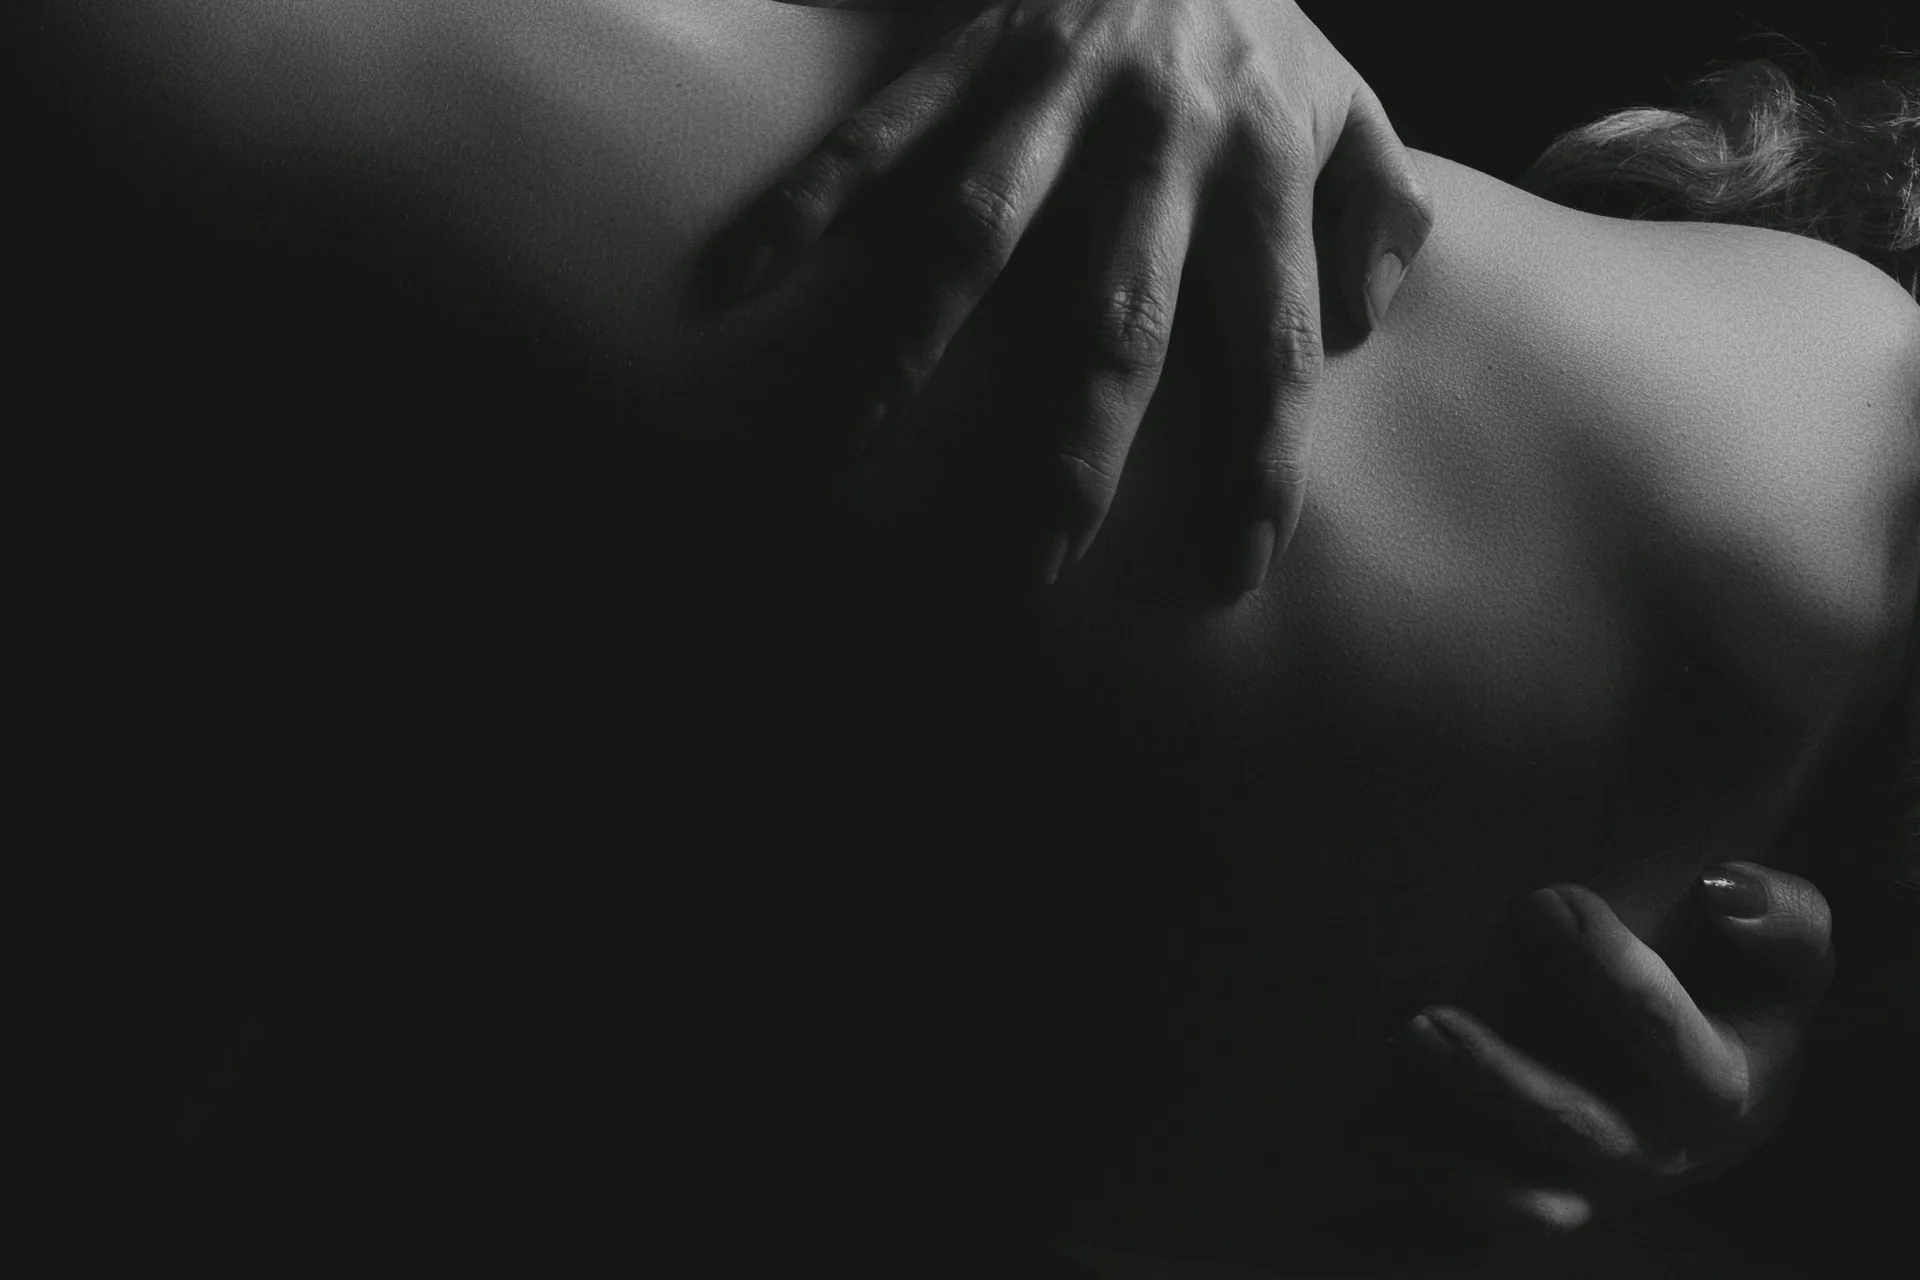
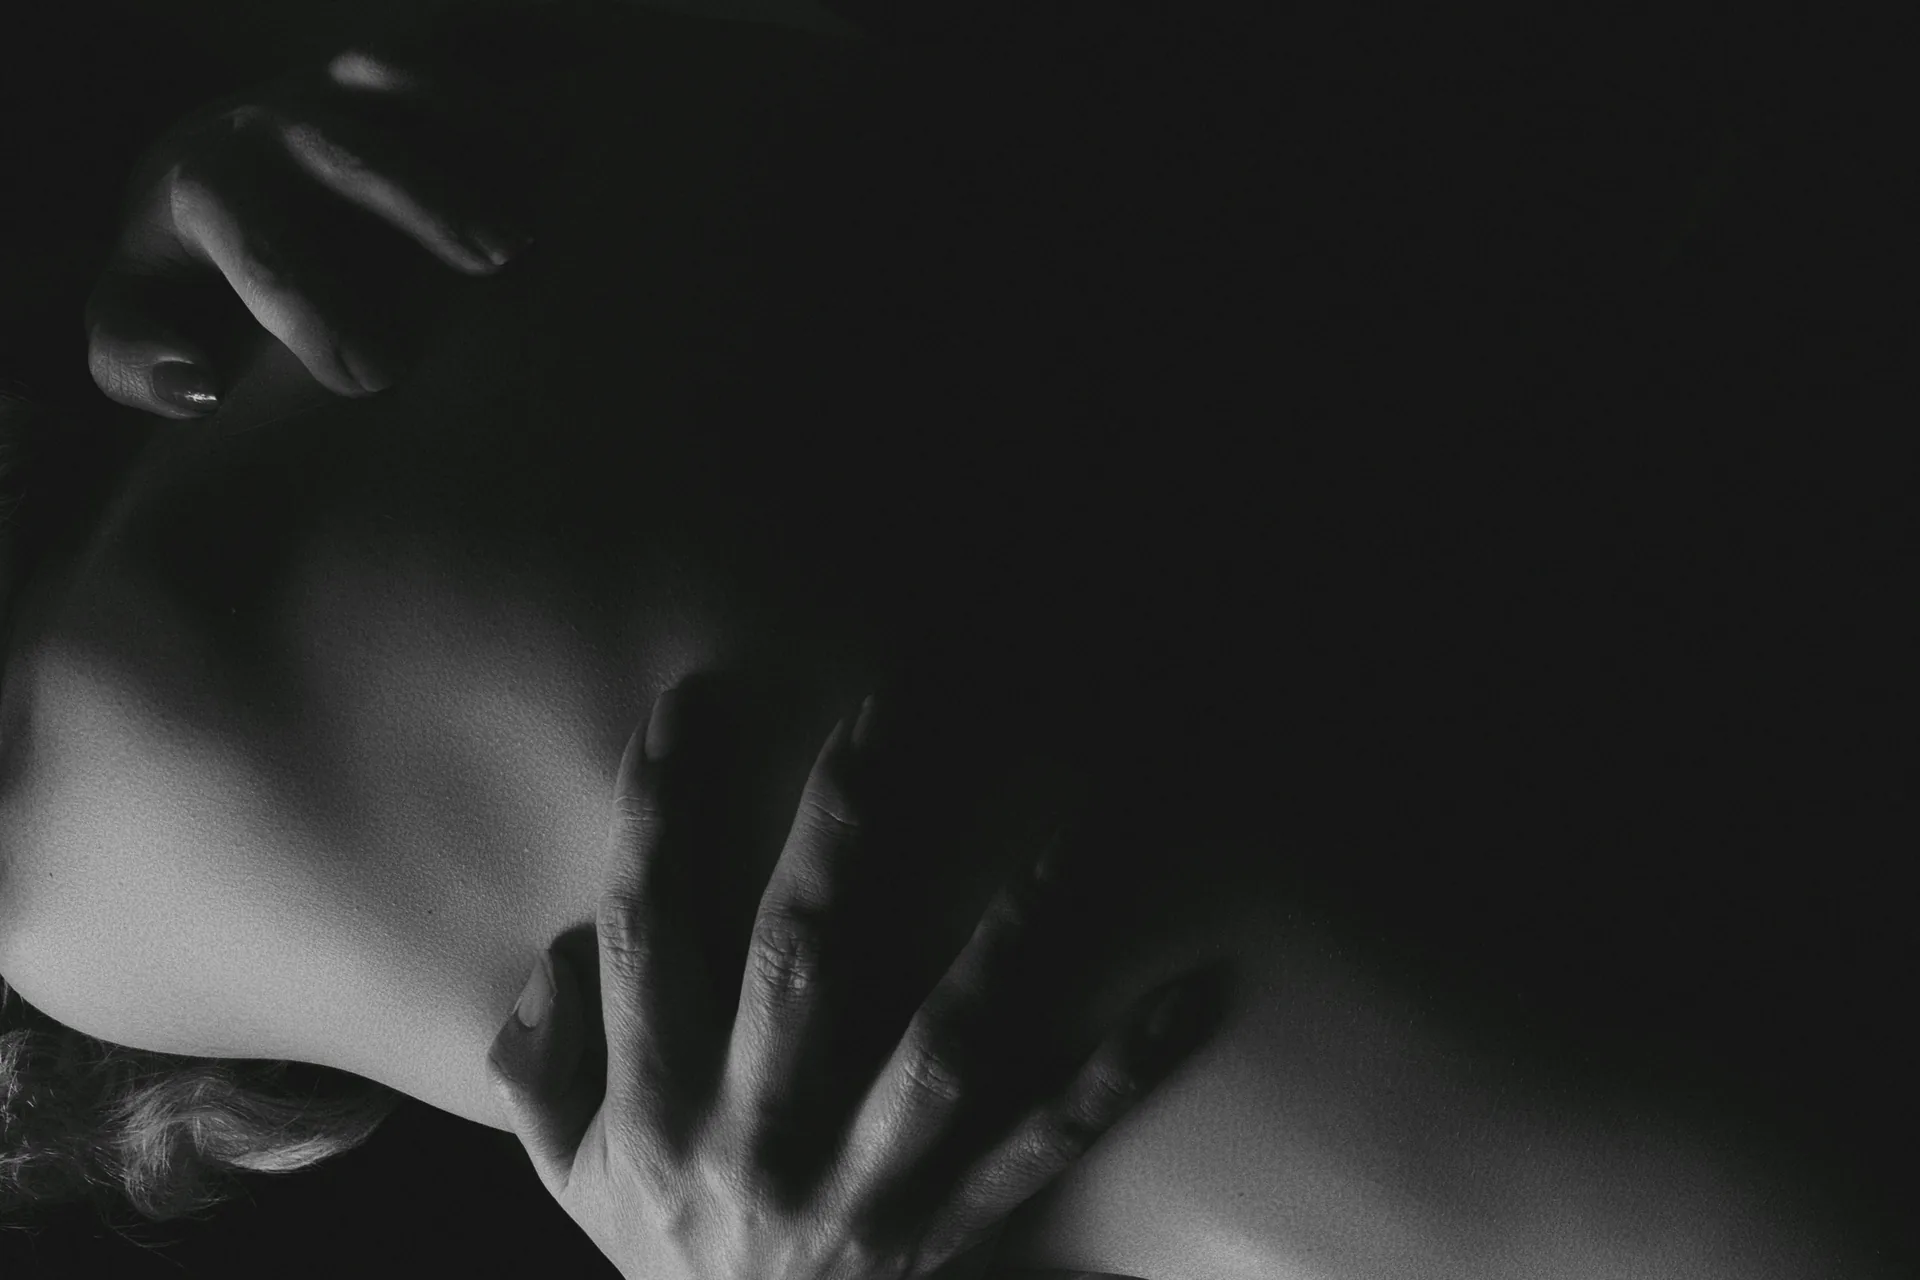
Turn the Plan Your Visit photograph counter-clockwise instead

diff --git a/docs/decisions.md b/docs/decisions.md
@@ -620,5 +620,5 @@ Prompt 01 decisions come first (1 to 47); prompt 02 and its review addendum foll
 
 392. The development `runserver` (`apps/core/management/commands/runserver.py`) applies unapplied migrations before it starts and again on every reload after a code change, prints a red WARNING naming any it could not apply, and warns when no membership tiers are on offer. The cause was the dev API container, which migrated only when it started: after prompt 09's models loaded through the code reloader, `/api/membership/tiers/` failed on a missing column until someone ran `migrate` by hand. `apps.core` now sits before `django.contrib.staticfiles` in `INSTALLED_APPS` so this `runserver` is the one Django uses; it still serves static files. `--skip-migrate` turns it off; nothing changes with DEBUG off.
 393. `/membership` shows "Membership plans are not online yet" when no tiers are on offer, rather than an empty page; "did not load" is kept for a failed request.
-394. The Plan Your Visit hero shows the owner's photograph (`photos/Plan.jpeg`), turned 90° clockwise at the owner's request, which makes it a 3:2 landscape that fills the design's 3:2 frame. It was processed by `scripts/fetch_images.py` into `visit-plan.webp` (metadata stripped, 640 to 1920px wide) and recorded in the manifest with `faces_visible` false, since no face shows. As on every page hero, the picture shows from 1024px; phones show the title alone. The Guests page keeps its own placeholder. The original is not committed (`/photos/` is ignored).
+394. The Plan Your Visit hero shows the owner's photograph (`photos/Plan.jpeg`), turned 90° counter-clockwise at the owner's request (a clockwise turn was tried first), which makes it a 3:2 landscape that fills the design's 3:2 frame. It was processed by `scripts/fetch_images.py` into `visit-plan.webp` (metadata stripped, 640 to 1920px wide) and recorded in the manifest with `faces_visible` false, since no face shows. As on every page hero, the picture shows from 1024px; phones show the title alone. The Guests page keeps its own placeholder. The original is not committed (`/photos/` is ignored).
 
